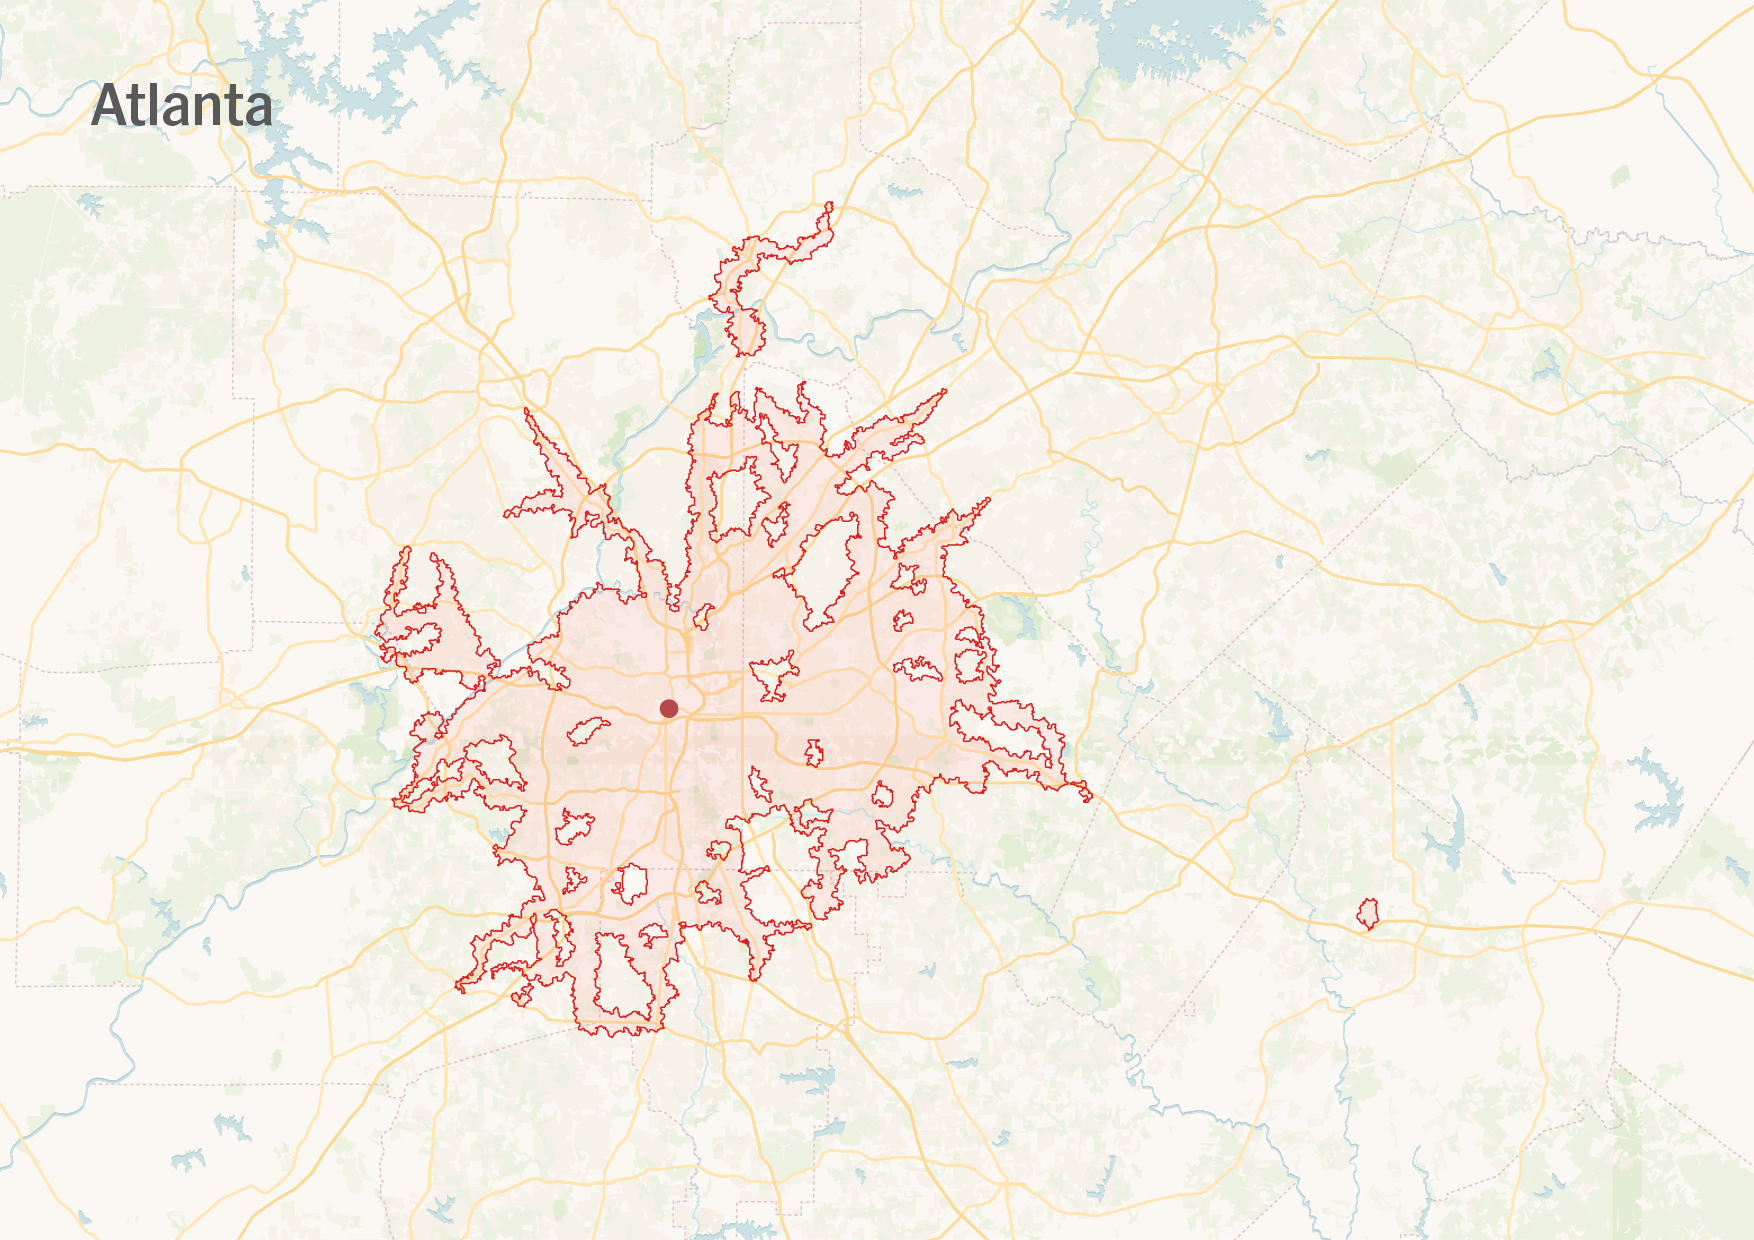
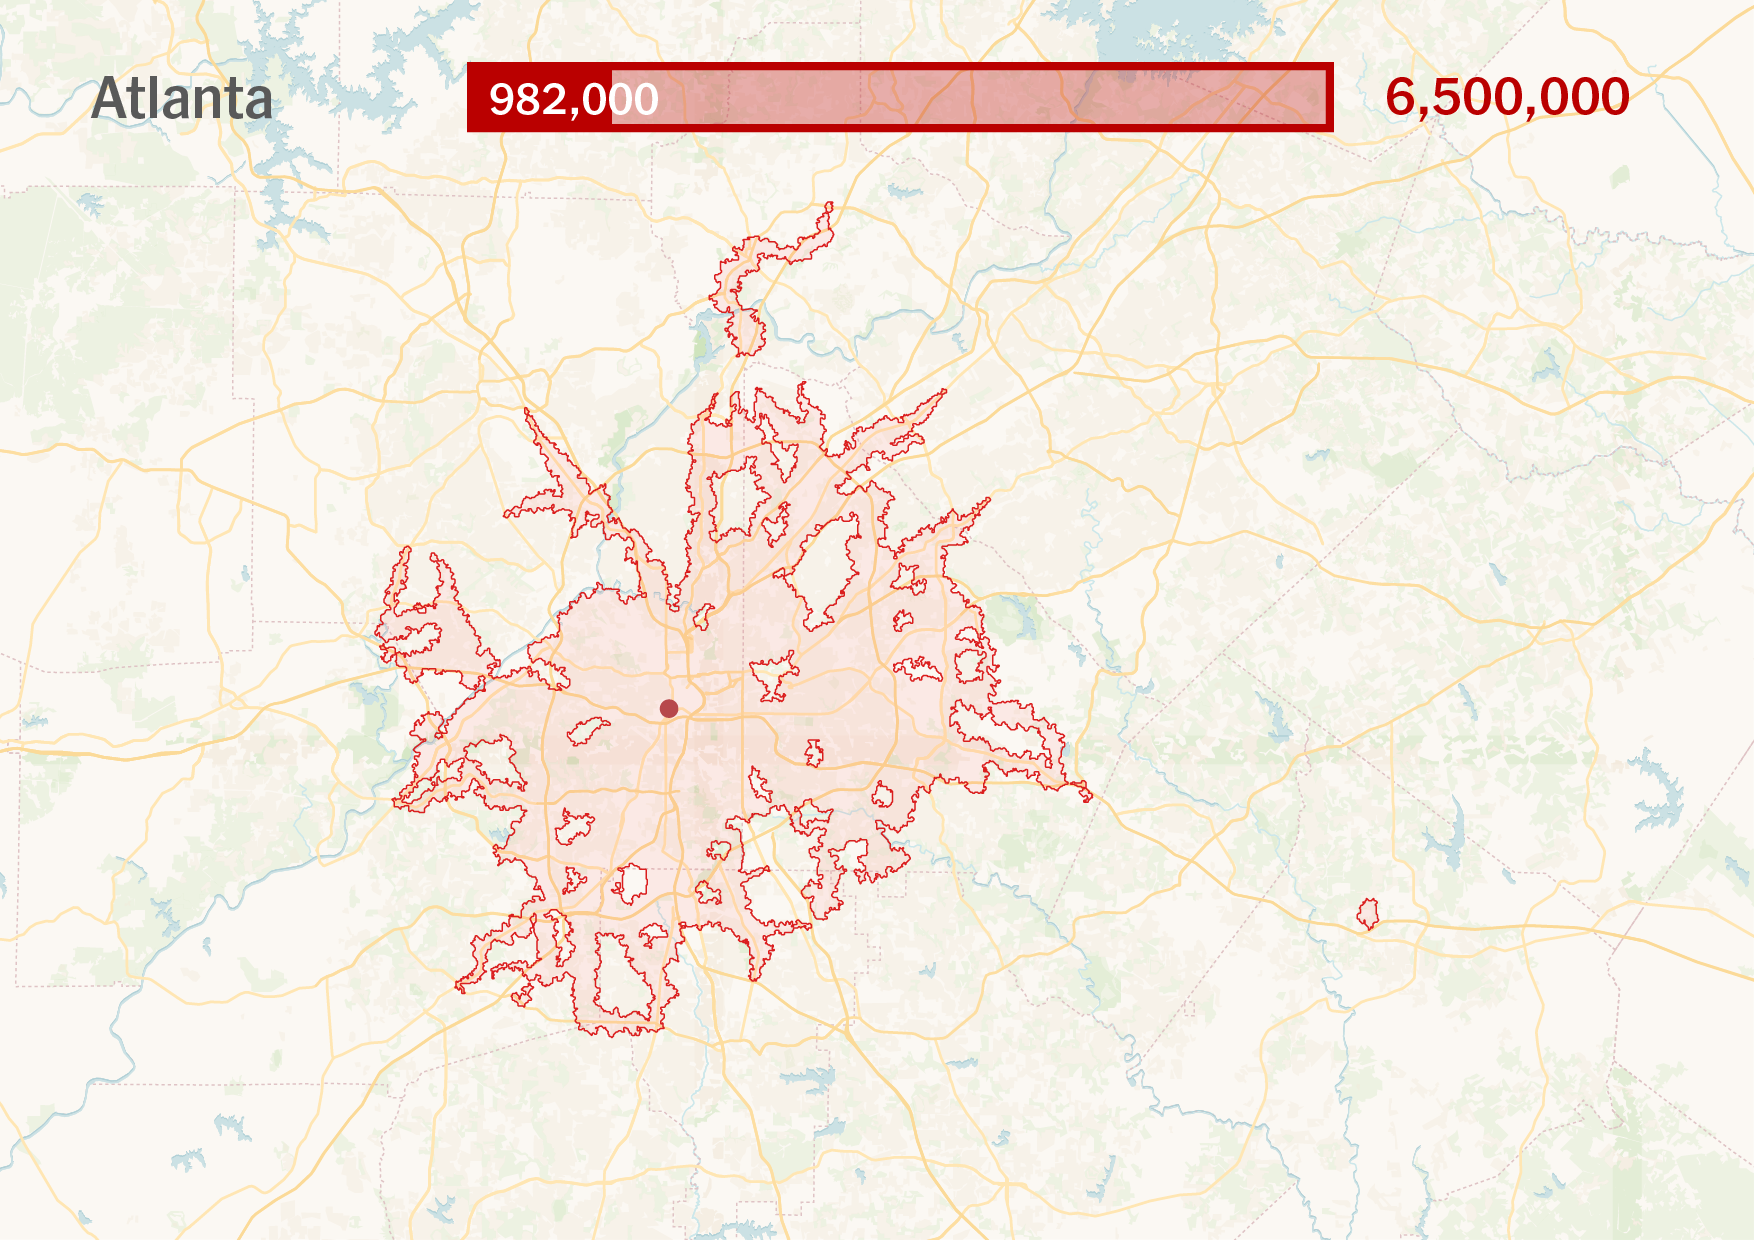
Changes to last section

Changed region(s): [[0.2463, 0.0306, 0.9544, 0.1226], [0.0308, 0.0613, 0.1539, 0.1226]]

diff --git a/index.html b/index.html
@@ -78,7 +78,7 @@
           <li>Puskás Aréna (Budapest)</li>
           <li>PGE Narodowy (Warsaw)</li>
           <li>Ali Sami Yen (Istanbul)</li>
-          <li>Luzhniki Stadium (Moscow))</li>
+          <li>Luzhniki Stadium (Moscow)</li>
         </ol>
       </div>
     </section>
@@ -235,6 +235,9 @@
           <div class="step" id="stepr1">
             <p>Here are the locations of the stadiums in each city.</p>
           </div>
+          <div class="step" id="stepr1_1">
+            <p>The bar tracks how many people can get to each stadium with a set amount of time.</p>
+          </div>
           <div class="step" id="stepr2">
             <p>This is the region of people who can get to each stadium using public transportation within 30 minutes</p>
           </div>
@@ -249,8 +252,8 @@
         </div>
         </div>
         <div class="section-body">
-          <p class="para">While these regions may all look somewhat comparable in size, they do not match in population. For example, Manhattan is not covered until we get to 90 minutes, while downtown Marseille and Barcelona are mostly covered by the 30 minute region. As a result, at 30 minutes, around 100,000 people can get to Orange Velodrome in Marseille, but only 3,000 can get to MetLife Stadium. However, at 90 minutes, those numbers become 977,000 and 4,226,000 respectively. This is still not completely representative however, since 977,000 is around 50% of Marseille's total metro population, while 4,226,000 is only around 18% of New York's metro population.</p>
-          <p class="para">Atlanta's population numbers are also quite interesting. While Mercedes-Benz Stadium is in the center of the city, only 40,000 people can get there within 30 minutes. Even at 90 minutes, that number only becomes 982,000, which is around the same as it is for Marseille, but Atlanta has a metro population over 3 times the size. This is due to widespread suburban sprawl, which is a feature of many American cities.</p>
+          <p class="para">While these regions may all look somewhat comparable in size, they do not match in population. For example, Manhattan is not covered until we get to 90 minutes, while downtown Marseille and Barcelona are mostly covered by the 30 minute region. Even at 90 minutes, 977,000 is around 50% of Marseille's total metro population, while 4,226,000 is only around 18% of New York's metro population.</p>
+          <p class="para">Atlanta's population numbers are also quite interesting. While Mercedes-Benz Stadium is in the center of the city, the stadium is not easily accessible for the majority of people in the area even at 90 minutes. This is due to widespread suburban sprawl, which is a feature of many American cities.</p>
           <p class="para">Ultimately, it has been well known that American cities cannot compete with European ones when it comes to public transportation and overall connectivity. The Unites States is a much more car-dependent nation, and opts to build large sprawling cities instead of compact ones. Yet, America has also never hosted an event as large and widespread as this year's World Cup. It is still unclear whether America's transportation problems will be an issue the summer, and whether it will become a lesson on human movement and connectivity that future generations can learn from.</p>
         </div>
       </section>

diff --git a/script.js b/script.js
@@ -326,6 +326,24 @@ d3.select("#stepr1").on('stepout',function(e) {
   }
 })
 
+d3.select("#stepr1_1").on('stepin',function(e) {
+  if (e.detail.direction === 'down') {
+    d3.select("#mars").attr("src", "images/marsr1_1.png");
+    d3.select("#nyc").attr("src", "images/nycr1_1.png");
+    d3.select("#bar").attr("src", "images/barr1_1.png");
+    d3.select("#atl").attr("src", "images/atlr1_1.png");
+  }
+})
+
+d3.select("#stepr1_1").on('stepout',function(e) {
+  if (e.detail.direction === 'up') {
+    d3.select("#mars").attr("src", "images/marsr1.png");
+    d3.select("#nyc").attr("src", "images/nycr1.png");
+    d3.select("#bar").attr("src", "images/barr1.png");
+    d3.select("#atl").attr("src", "images/atlr1.png");
+  }
+})
+
 d3.select("#stepr2").on('stepin',function(e) {
   if (e.detail.direction === 'down') {
     d3.select("#mars").attr("src", "images/marsr2.png");
@@ -337,10 +355,10 @@ d3.select("#stepr2").on('stepin',function(e) {
 
 d3.select("#stepr2").on('stepout',function(e) {
   if (e.detail.direction === 'up') {
-    d3.select("#mars").attr("src", "images/marsr1.png");
-    d3.select("#nyc").attr("src", "images/nycr1.png");
-    d3.select("#bar").attr("src", "images/barr1.png");
-    d3.select("#atl").attr("src", "images/atlr1.png");
+    d3.select("#mars").attr("src", "images/marsr1_1.png");
+    d3.select("#nyc").attr("src", "images/nycr1_1.png");
+    d3.select("#bar").attr("src", "images/barr1_1.png");
+    d3.select("#atl").attr("src", "images/atlr1_1.png");
   }
 })
 
